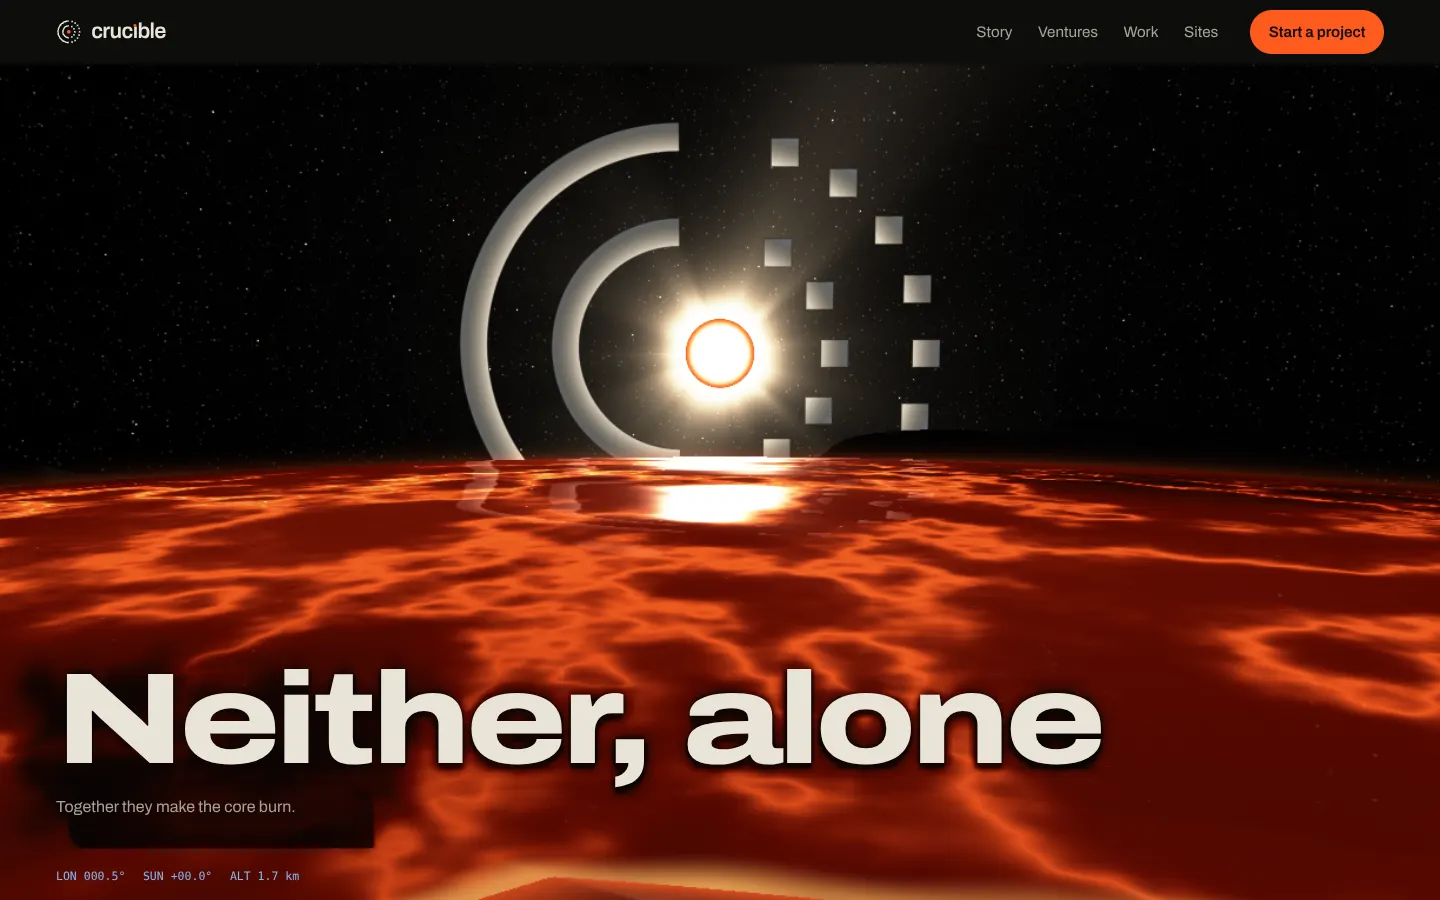
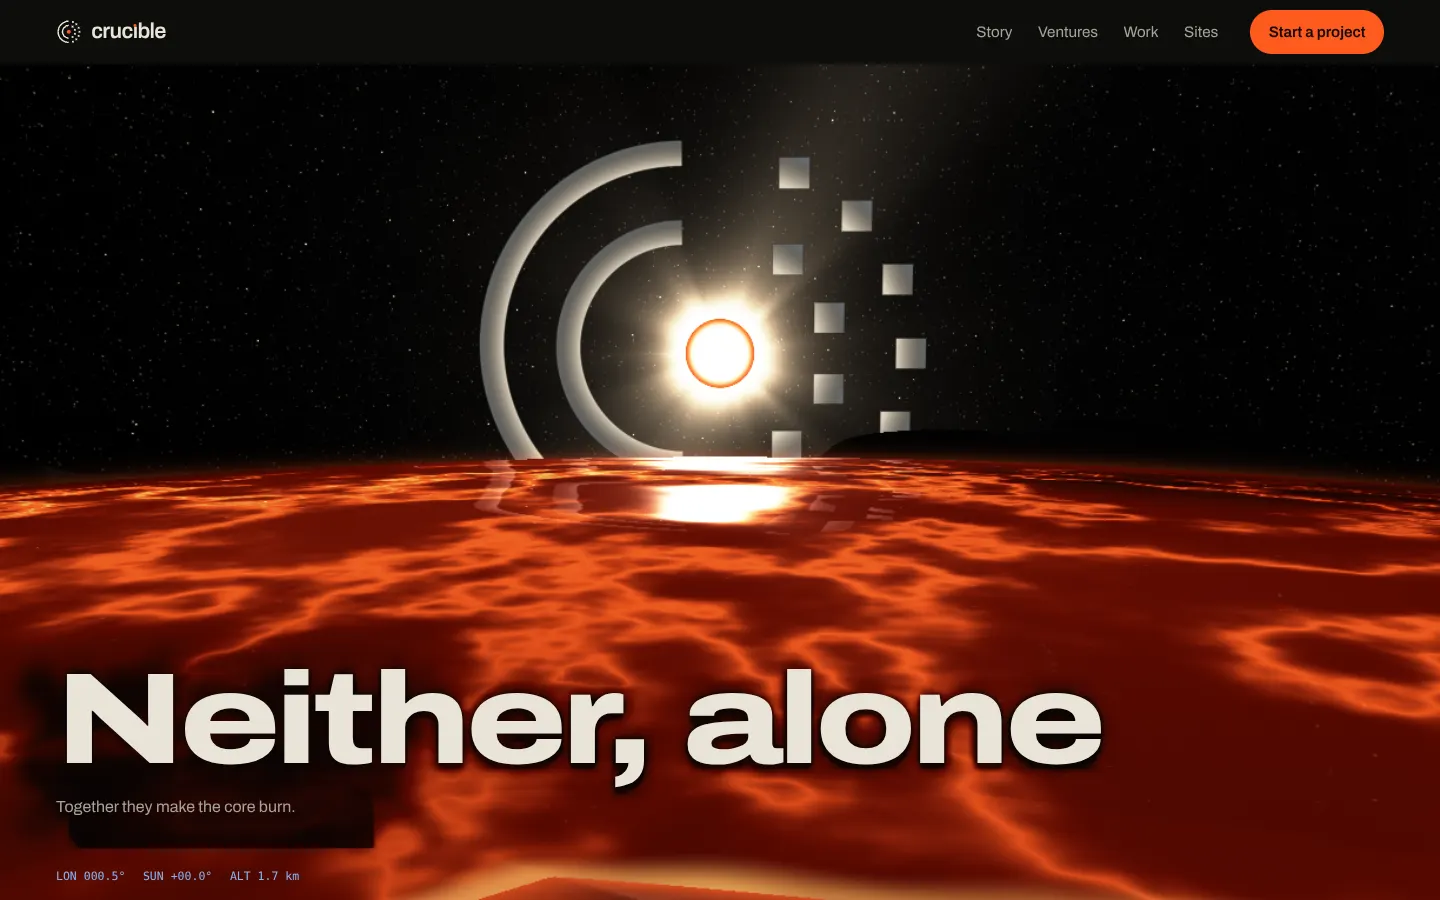
Airless: use Jacob's new mark (rings 20/12, 7 + 4 squares, core 3.6)
The sun's halo, the nav mark and the mark cut into the Crucible Sites slab now
follow lib/splitRing.ts at e480844; screenshots re-rendered.

Claude-Session: https://claude.ai/code/session_01PrrUSitYmSR7aDjHHAhibr

diff --git a/concepts/airless/index.html b/concepts/airless/index.html
@@ -212,7 +212,7 @@ html[data-notext] main, html[data-notext] footer, html[data-notext] .readout, ht
 
 <header class="nav" id="nav">
   <a class="brand" href="#top" aria-label="Crucible, home">
-    <svg viewBox="0 0 64 64" aria-hidden="true" id="navmark"></svg>
+    <svg viewBox="0 0 48 48" aria-hidden="true" id="navmark"></svg>
     <span class="wm" aria-hidden="true">cruc<span class="i">ı</span>ble</span>
   </a>
   <nav aria-label="Main">
@@ -398,7 +398,8 @@ const sstep = (a, b, x) => { const t = clamp((x - a) / (b - a)); return t * t * 
 const mix = (a, b, t) => a + (b - a) * t;
 
 /* ---------------- The mark (lib/splitRing.ts geometry) ---------------- */
-const RING = { c: 32, px: 3.6, stroke: 3.6, core: 4.5, rings: [{ r: 27, n: 9 }, { r: 15, n: 5 }] };
+// Jacob's mark (lib/splitRing.ts, 48-unit grid): rings r 20 / 12, stroke 2.6, squares 3.2, core 3.6, 7 + 4 squares.
+const RING = { c: 24, px: 3.2, stroke: 2.6, core: 3.6, rings: [{ r: 20, n: 7 }, { r: 12, n: 4 }] };
 function markSvg(fg = '#e8e4d8', core = '#ff5b1f') {
   const { c, px, rings } = RING, h = RING.stroke / 2, f = (n) => +n.toFixed(3);
   let s = '';
@@ -584,39 +585,39 @@ vec4 halo(vec3 d, float pa){
   if (uHalo.w < 0.01) return vec4(0.0);
   vec3 S = uSun.xyz; float cz = dot(d, S); if (cz < 0.3) return vec4(0.0);
   vec3 rt = normalize(cross(S, vec3(0.0, 1.0, 0.0))); vec3 tp = cross(rt, S);
-  float k = 4.5 / tan(uSun.w);
+  float k = 3.6 / tan(uSun.w);
   vec2 m = vec2(dot(d, rt), dot(d, tp)) / cz * k;
   float px = pa * k * 1.1;
   vec3 col = vec3(0.0); float a = 0.0;
   float sh = uHalo.y;
-  vec2 ma = m + vec2(sh * 70.0, -sh * 8.0);
+  vec2 ma = m + vec2(sh * 52.0, -sh * 6.0);
   float av = 1.0 - smoothstep(0.35, 0.9, sh);
   float endx = smoothstep(-px, px, -ma.x);
   for (int i = 0; i < 2; i++) {
-    float r = i == 0 ? 27.0 : 15.0;
+    float r = i == 0 ? 20.0 : 12.0;
     float dr = length(ma) - r;
-    float cov = smoothstep(1.8 + px, 1.8 - px, abs(dr)) * endx * av;
-    float rr = clamp(dr / 1.8, -1.0, 1.0);
+    float cov = smoothstep(1.3 + px, 1.3 - px, abs(dr)) * endx * av;
+    float rr = clamp(dr / 1.3, -1.0, 1.0);
     float lit = pow(0.5 - 0.5 * rr, 1.6);
     vec3 c = BONE * (0.34 + 0.62 * lit) * mix(vec3(1.0), SUNC, 0.3) + QUENCH * 0.16 * pow(0.5 + 0.5 * rr, 4.0);
     col = mix(col, c, cov); a = max(a, cov);
   }
   float sm = uHalo.x;
   for (int ri = 0; ri < 2; ri++) {
-    float r = ri == 0 ? 27.0 : 15.0; int n = ri == 0 ? 9 : 5;
-    for (int kk = 1; kk <= 9; kk++) {
+    float r = ri == 0 ? 20.0 : 12.0; int n = ri == 0 ? 7 : 4;
+    for (int kk = 1; kk <= 7; kk++) {
       if (kk > n) break;
       float ang = -PI * 0.5 + float(kk) * PI / float(n + 1);
       vec2 p = vec2(r * cos(ang), -r * sin(ang));
       float hs = h12(vec2(float(kk) * 3.1, float(ri) * 7.7));
       vec2 ov = normalize(p); vec2 pe = vec2(-ov.y, ov.x);
-      p += (ov * (10.0 + 30.0 * hs) + pe * (hs - 0.5) * 22.0) * sm;
+      p += (ov * (7.5 + 22.0 * hs) + pe * (hs - 0.5) * 16.0) * sm;
       vec2 q = m - p;
       float tl = (hs - 0.5) * 0.38 * sm; float cs = cos(tl), sn = sin(tl); q = mat2(cs, -sn, sn, cs) * q;
       float b = max(abs(q.x), abs(q.y));
-      float cov = smoothstep(1.8 + px, 1.8 - px, b);
+      float cov = smoothstep(1.6 + px, 1.6 - px, b);
       vec2 toC = normalize(-p);
-      float f = clamp(dot(q, toC) / 1.8, -1.0, 1.0);
+      float f = clamp(dot(q, toC) / 1.6, -1.0, 1.0);
       float lit = pow(0.5 + 0.5 * f, 1.6);
       vec3 c = BONE * (0.36 + 0.62 * lit) * mix(vec3(1.0), SUNC, 0.3) + QUENCH * 0.16 * pow(0.5 - 0.5 * f, 4.0);
       col = mix(col, c, cov); a = max(a, cov);
@@ -676,12 +677,12 @@ float boxHit(vec3 ro, vec3 rd, vec3 E, out vec3 nl){
 float sdSeg(vec2 p, vec2 a, vec2 b){ vec2 pa = p - a, ba = b - a; float h = clamp(dot(pa, ba) / dot(ba, ba), 0.0, 1.0); return length(pa - ba * h); }
 // distance to the mark (mark units, y down), negative inside; core separately
 vec2 markD(vec2 p){
-  vec2 q = p - 32.0; float d = 1e3;
-  for (int i = 0; i < 2; i++){ float r = i == 0 ? 27.0 : 15.0; float a = abs(length(q) - r) - 1.8; d = min(d, max(a, q.x)); }
-  for (int ri = 0; ri < 2; ri++){ float r = ri == 0 ? 27.0 : 15.0; int n = ri == 0 ? 9 : 5;
-    for (int kk = 1; kk <= 9; kk++){ if (kk > n) break; float ang = -PI * 0.5 + float(kk) * PI / float(n + 1);
-      vec2 c = vec2(r * cos(ang), r * sin(ang)); vec2 e = abs(q - c) - 1.8; d = min(d, length(max(e, 0.0)) + min(max(e.x, e.y), 0.0)); } }
-  return vec2(d, length(q) - 4.5);
+  vec2 q = p - 24.0; float d = 1e3;
+  for (int i = 0; i < 2; i++){ float r = i == 0 ? 20.0 : 12.0; float a = abs(length(q) - r) - 1.3; d = min(d, max(a, q.x)); }
+  for (int ri = 0; ri < 2; ri++){ float r = ri == 0 ? 20.0 : 12.0; int n = ri == 0 ? 7 : 4;
+    for (int kk = 1; kk <= 7; kk++){ if (kk > n) break; float ang = -PI * 0.5 + float(kk) * PI / float(n + 1);
+      vec2 c = vec2(r * cos(ang), r * sin(ang)); vec2 e = abs(q - c) - 1.6; d = min(d, length(max(e, 0.0)) + min(max(e.x, e.y), 0.0)); } }
+  return vec2(d, length(q) - 3.6);
 }
 vec3 monoShade(int i, vec3 Pw, vec3 lp, vec3 nl, vec3 rd, float pa, float tt){
   mat3 M = uMonM[i]; vec3 nW = M * nl; vec3 E = uMonE;
@@ -704,8 +705,8 @@ vec3 monoShade(int i, vec3 Pw, vec3 lp, vec3 nl, vec3 rd, float pa, float tt){
     c += alb * vec3(0.5, 0.48, 0.45) * (0.75 + 0.25 * smoothstep(0.0, 4.0, yA));
     vec3 r = reflect(rd, nW); c += SUNC * pow(max(dot(r, S), 0.0), 60.0) * 0.5;
     if (nl.z > 0.5) {
-      vec2 mu = vec2(lp.x / (E.x * 0.78) * 32.0 + 32.0, (-(lp.y - E.y * 0.42)) / (E.x * 0.78) * 32.0 + 32.0);
-      float pxm = pa * tt / (E.x * 0.78) * 32.0;
+      vec2 mu = vec2(lp.x / (E.x * 0.78) * 24.0 + 24.0, (-(lp.y - E.y * 0.42)) / (E.x * 0.78) * 24.0 + 24.0);
+      float pxm = pa * tt / (E.x * 0.78) * 24.0;
       vec2 md = markD(mu);
       float cut = smoothstep(pxm, -pxm, md.x);
       c = mix(c, c * 0.32, cut);

diff --git a/concepts/airless/NOTES.md b/concepts/airless/NOTES.md
@@ -18,7 +18,7 @@ Ember stays the only hot UI colour: the core, the CTAs, the "Live" dot, the ı d
 - **Black sand.** A height-field raymarch for the shores, the island and the dunes on the horizon. Hard sunlight, a glassy sheen, sparkling grains, warm light from the sea, and Quench fill from above.
 - **Surf.** A swash runs up the beach fast and drains slowly. Its phase wanders along the shore, it has a white-hot lip, and the wet sand it leaves glows and then cools to black. Thin glowing crests run in toward the shore before each run-up.
 - **Sky.** Crisp stars that don't twinkle (two or three layers, sized to one pixel), a faint galaxy band, zodiacal light along a tilted ecliptic through the sun (the "light colour" in an airless sky), a corona with streamers, and a sharp disc that is white-hot at the centre and Ember at the limb. There is no haze and no blue gradient.
-- **The mark as the halo.** It is drawn in the sun's own angular frame at the exact `lib/splitRing.ts` geometry: bands end on the vertical line through the core, 9 and 5 upright cells. The hero's scroll beats move it: "Not the person" scatters the cells (tilted 11° at most), "Not the model" sends the arcs away, "Neither, alone" brings everything back and the core flares.
+- **The mark as the halo.** It is drawn in the sun's own angular frame at Jacob's new geometry (`lib/splitRing.ts` @ e480844, 48-unit grid): rings r 20 and 12, stroke 2.6, upright squares 3.2 (7 on the outer ring at 22.5° steps, 4 on the inner at 36°), and the core 3.6, which is the sun's disc. The halo's size is set from the sun's radius, so the proportions hold wherever it appears. The same mark is in the nav and cut into the Crucible Sites slab. The hero's scroll beats move it: "Not the person" scatters the cells (tilted 11° at most), "Not the model" sends the arcs away, "Neither, alone" brings everything back and the core flares.
 - **Wakes.** A GPU wave equation (RG16F, 256², 120 Hz substeps) on a 52-unit patch anchored to the world. It follows the camera in whole texels. The pointer or finger is a zero-mean dipole (up ahead, down behind) swept continuously along its path, so it leaves a bow ridge and V lines, never drops or a lasting trough. A tap is one zero-mean drop. The waves are slow, as in viscous lava (about 6 units/s), so medium and fast strokes go "supersonic" and draw a V. Crests glow from the field's curvature (crust stretched open); troughs cool slightly. The sun's glare from wake normals is halved so the wake reads as lines. Scrolling over a resting cursor or finger also makes a wake, because its hit point moves across the sea.
 - **Text in the world.** Display lines are drawn into a 2-slot atlas from their own DOM glyph boxes. The thesis line and the giant wordmark get a real reflection in the lava, distorted by the waves. The hero headline and beats cool the crust under their letters (a soft glyph-shaped shadow of cold crust), and body text cools a soft raft under itself. The sea under type is darker by temperature, which keeps text AA without boxes.
 - **PayPal.** A plan view of a calm, dark sea. One molten pool ("PayPal") sends out a wave. As the wave reaches each of six places, a casting ignites there: a pool with a crisp hot rim that keeps rippling. A channel of flowing metal links each casting back to PayPal. Everything is scrubbed by scroll, keeps moving at rest, and stays in the world as the camera moves on. The labels are projected from those world positions, which come from screen positions cast back onto the sea, so the composition holds on any screen.
